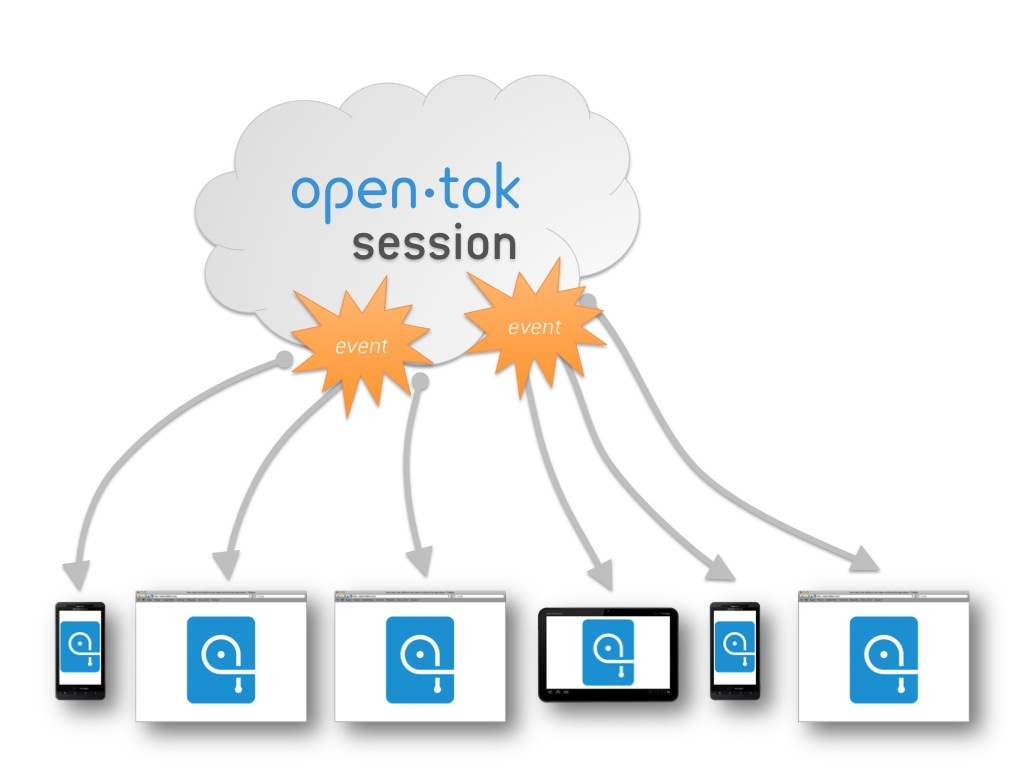
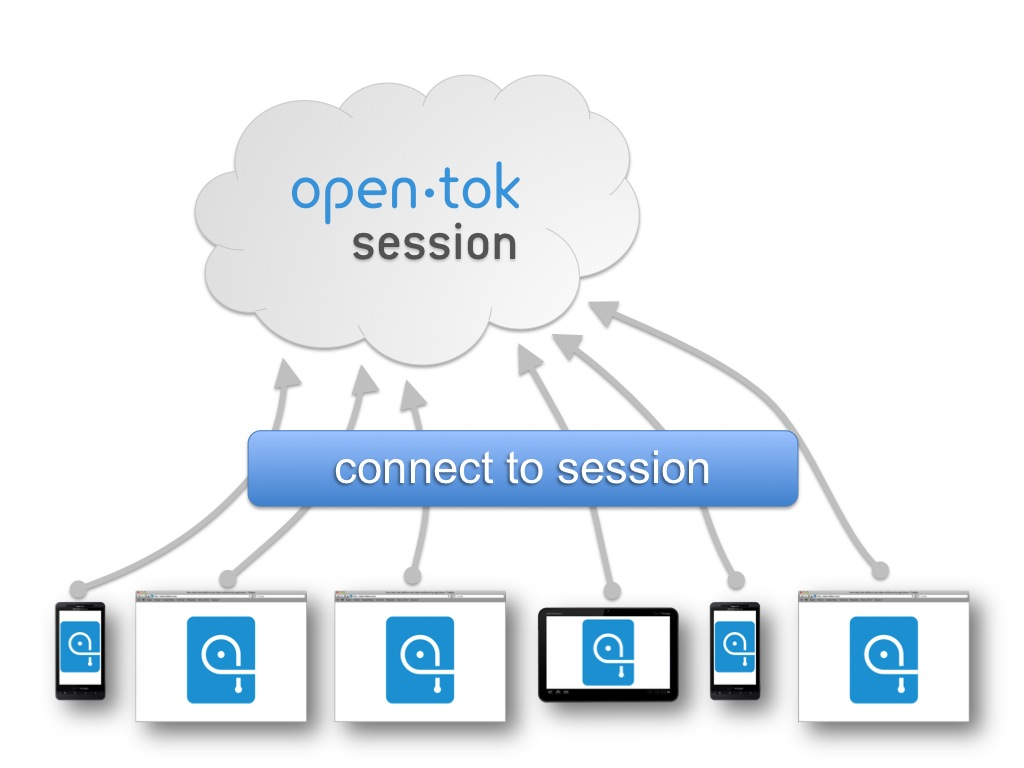
initial import

diff --git a/scripts/slide_widget.js b/scripts/slide_widget.js
@@ -1,77 +1,68 @@
 require(["TB.min", "OT_LayoutContainer"], function() {
     require.ready(function() {      
-      ( 
+      (function() { 
         // Bind toggling the display of widget to 'o' key
         $(document).keydown(function(e) {
           if (e.keyCode == 79) {
-            // if ($(".opentok_widget"))
+            
+            console.log('Toggle OpenTok');
+                        
+            var div = $("#opentok");
+            
+            console.log(div.css('visibility'));
+            
+            if (div.css('visibility') == 'visible') {
+              console.log('should go to hidden');
+              div.css('visibility', 'hidden');
+            } else {
+              div.css('visibility', 'visible');
+            }
           }
-        })
-               
-        function() {
-        // Presentation binds for custom animation
-        $(".opentok_widget").bind("showoff:show", function(event) {
-          initOpenTok();
-        })
+        })               
 
-        $(".opentok_widget").bind("showoff:next", function(event) {
-          removeOpenTok();
-        })
+        var div = document.createElement('div');
+        div.setAttribute('id', 'opentok');
+        div.style.position = 'absolute';
+        div.style.left = '0px';
+        div.style.top = '0px';
+        div.style.zIndex = 100;
+        div.style.width = '1024px';
+        div.style.height = '768px';
+        div.style.margin = '0px auto';
+        div.style.visibility = 'hidden';
+        
+        var container = document.createElement('div');
+        var containerDivId = 'streamContainer';
+        container.setAttribute('id', containerDivId);
 
-        // OpenTok stuff
-        function initOpenTok() {
-          var div = document.createElement('div');
-          div.setAttribute('id', 'opentok');
-          div.style.position = 'absolute';
-          div.style.left = '0px';
-          div.style.top = '0px';
-          div.style.zIndex = 100;
-          div.style.width = '1024px';
-          div.style.height = '768px';
-          div.style.margin = '0px auto';
+        div.appendChild(container);
 
-          var container = document.createElement('div');
-          var containerDivId = 'streamContainer';
-          container.setAttribute('id', containerDivId);
+        var preso = document.getElementById('preso');
+        preso.appendChild(div);
 
-          div.appendChild(container);
+      	var apiKey = 413302; // OpenTok sample API key. Replace with your own API key.
+      	var sessionId = '28757622dbf26a5a7599c2d21323765662f1d436'; // Replace with your session ID.
+      	var token = 'devtoken'; // Should not be hard-coded.
 
-          var preso = document.getElementById('preso');
-          preso.appendChild(div);
+      	session = TB.initSession(sessionId);
 
-        	var apiKey = 413302; // OpenTok sample API key. Replace with your own API key.
-        	var sessionId = '28757622dbf26a5a7599c2d21323765662f1d436'; // Replace with your session ID.
-        	var token = 'devtoken'; // Should not be hard-coded.
+        require(["OT_Widget"], function() {
+          require.ready(function() {
+            console.log('Widget loaded');
 
-        	session = TB.initSession(sessionId);
+      			// This class does all the video publishing and subscribing for us
+      			OT_Widget.init(session, containerDivId, 1024, 768);
 
-          require(["OT_Widget"], function() {
-            require.ready(function() {
-              console.log('Widget loaded');
+            session.addEventListener('sessionConnected', sessionConnectedHandler);
 
-        			// This class does all the video publishing and subscribing for us
-        			OT_Widget.init(session, containerDivId, 1024, 768);
+      			session.connect(apiKey, token);   
 
-              session.addEventListener('sessionConnected', sessionConnectedHandler);
-
-        			session.connect(apiKey, token);   
-
-        			function sessionConnectedHandler(event) {
-        			  console.log('Session connected');
-        			  session.signal();
-        			}         
-            })
+      			function sessionConnectedHandler(event) {
+      			  console.log('Session connected');
+      			  session.signal();
+      			}         
           })
-        }
-
-        function removeOpenTok() {
-          OT_Widget.cleanup();
-
-          var preso = document.getElementById('preso');
-          var div = document.getElementById('opentok');
-
-          preso.removeChild(div);
-        }
+        })
 			})();
     });
 });

diff --git a/scripts/OT_Widget.js b/scripts/OT_Widget.js
@@ -2,6 +2,8 @@ var OT_Widget = function() {
 	var session;
 	
 	var divId;
+	
+	var count = 0;
 
 	//--------------------------------------
 	//  OPENTOK EVENT HANDLERS
@@ -31,6 +33,7 @@ var OT_Widget = function() {
 			for (var j = 0; j < subscribers.length; j++) {
 				// Then remove each stream
 				OT_LayoutContainer.removeStream(subscribers[j].id);
+				count--;
 			}
 		}
 
@@ -63,6 +66,8 @@ var OT_Widget = function() {
 	var subscribeToStreams = function (streams) {
 		// For each stream
 		for (var i = 0; i < streams.length; i++) {
+		  if (count >= 8) break;
+		  		  
 			// Check if this is the stream that I am publishing, and if so do not subscribe.
 			if (streams[i].connection.connectionId != session.connection.connectionId) {
 				// Make a unique div id for this stream
@@ -70,8 +75,9 @@ var OT_Widget = function() {
 
 				// Pass in FALSE since this is a subscriber
 				OT_LayoutContainer.addStream(divId, false);
+				count++;	
 
-				session.subscribe(streams[i], divId);				
+				session.subscribe(streams[i], divId);			
 			}
 		}
 	}
@@ -97,15 +103,14 @@ var OT_Widget = function() {
 		},
 		
 		cleanup: function() {
-		  /*
-		  // Don't need this?
-		  // Remove all divs from the page
+
+		  // Remove all child divs from the page
 		  var div = document.getElementById(divId);
 		  if (div.hasChildNodes()) {
 		    while (div.childNodes.length >= 1) {
 		      div.removeChild(div.firstChild);
 		    }
-		  }*/
+		  }
 		  
 		  session.removeEventListener('streamDestroyed', streamDestroyedHandler);
 		  session.disconnect();

diff --git a/style.css b/style.css
@@ -40,12 +40,12 @@
 
 .architecture img {
   height: 620px;
-  margin-top: -40px;
+  margin-top: 120px;
   margin-left: 100px;
 }
 
 .architecture code {
   position: absolute;
-  top: 580px;
+  top: 30px;
   left: 40px;
 }

diff --git a/4-how/03_architecture.md b/4-how/03_architecture.md
@@ -2,14 +2,25 @@
 
 ![architecture](../img/architecture/Slide1.jpg)
 
+!SLIDE architecture
+
+![architecture](../img/architecture/Slide2.jpg)
+
 	@@@ javascript
-	// Init and connect to session
+	// Initialize session
 	var session = TB.initSession(sessionId);
+
+!SLIDE architecture
+
+![architecture](../img/architecture/Slide3.jpg)
+
+	@@@ javascript
+	// Connect to session
 	session.connect(apiKey, token);
 
 !SLIDE architecture
 
-![architecture](../img/architecture/Slide2.jpg)
+![architecture](../img/architecture/Slide4.jpg)
 
 	@@@ javascript
 	// Publish webcam stream to session
@@ -17,7 +28,7 @@
 	
 !SLIDE architecture
 
-![architecture](../img/architecture/Slide3.jpg)
+![architecture](../img/architecture/Slide5.jpg)
 
 	@@@ javascript
 	// Listen for stream created event
@@ -26,7 +37,7 @@
 	
 !SLIDE architecture smaller
 
-![architecture](../img/architecture/Slide4.jpg)
+![architecture](../img/architecture/Slide6.jpg)
 
 	@@@ javascript
 	// Subscribe to all new streams

diff --git a/4-how/04_website.md b/4-how/04_website.md
@@ -1,7 +1,3 @@
-!SLIDE center
-
-![screenshot](../img/screenshot.jpg)
-
 !SLIDE
 
 ## go to ##
